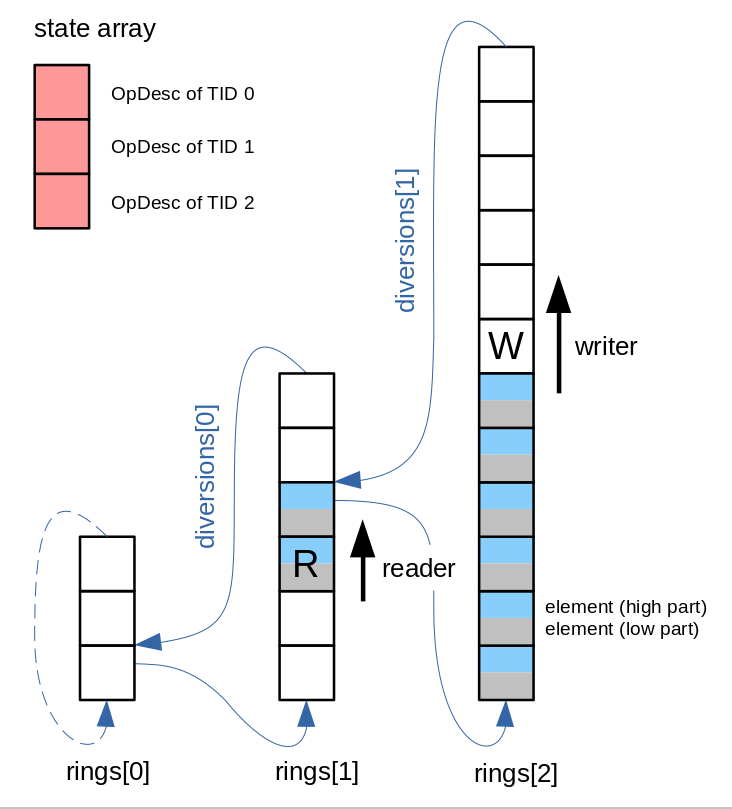
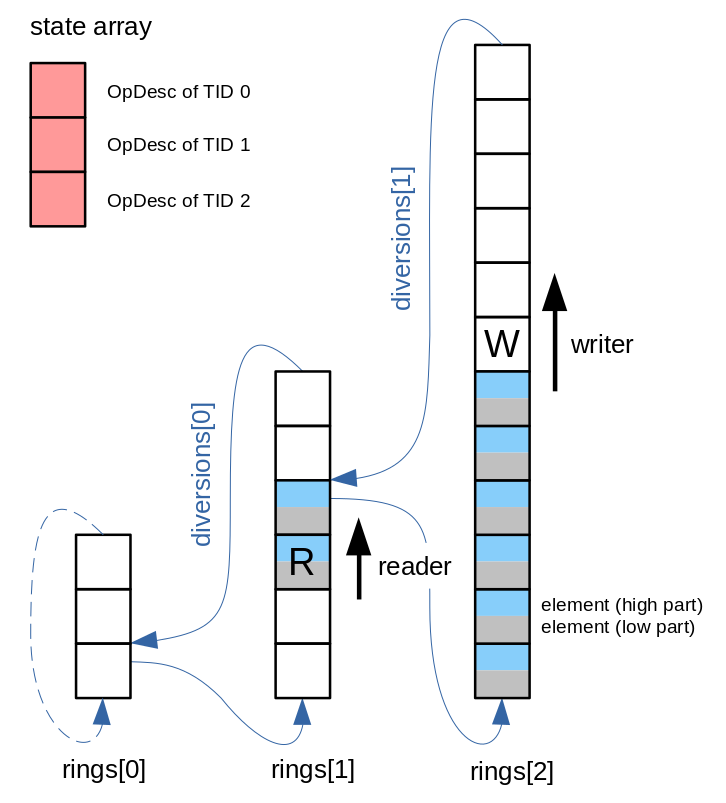
Improve asserts in Simulator of Wait-Free Queue

diff --git a/Simulator_WaitFreeMultiArrayQueue.html b/Simulator_WaitFreeMultiArrayQueue.html
@@ -481,11 +481,14 @@ div.trail {
       }
     } else {
       if (ps[ownTid].elementLowDirty && ps[ownTid].elementLowEnqueue) {
+        assert(10645, "undefined" !== typeof rings[CNT_ALLOWED_EXTENSIONS])
         assert(10650, ps[ownTid].effectiveRound == (1 + ps[ownTid].elementLowRound))
+        assert(10660, MAXIMUM_CAPACITY == (cntEnqueued - cntDequeued))
         ps[ownTid].isNowFullOrEmpty = true
         ps[ownTid].nextStep = "re_check_state_pending"
       } else if (ps[ownTid].elementLowDirty && (false == ps[ownTid].elementLowEnqueue)) {
         if ((ps[ownTid].effectiveRound == (1 + ps[ownTid].oppositeRound)) && (ps[ownTid].effectiveRix == ps[ownTid].oppositeRix) && (ps[ownTid].effectiveIx == ps[ownTid].oppositeIx)) {
+          assert(10670, "undefined" !== typeof rings[CNT_ALLOWED_EXTENSIONS])
           ps[ownTid].origEffectiveRound = ps[ownTid].oppositeRound
           ps[ownTid].effectiveRound = ps[ownTid].oppositeRound
           ps[ownTid].nextStep = "help_finish_re_read_state"
@@ -564,9 +567,11 @@ div.trail {
         } else ps[ownTid].nextStep = "re_check_state_pending"
       } else if (ps[ownTid].elementLowDirty && (false == ps[ownTid].elementLowEnqueue)) {
         assert(10950, ps[ownTid].effectiveRound == (1 + ps[ownTid].elementLowRound))
+        assert(10960, cntEnqueued == cntDequeued)
         ps[ownTid].isNowFullOrEmpty = true
         ps[ownTid].nextStep = "re_check_state_pending"
       } else {
+        assert(10970, cntEnqueued == cntDequeued)
         ps[ownTid].isNowFullOrEmpty = true
         ps[ownTid].nextStep = "re_check_state_pending"
       }
@@ -637,7 +642,6 @@ div.trail {
       if (ps[ownTid].stateEnqueue) {
         if (ps[ownTid].isNowFullOrEmpty) {
           assert(11120, MAXIMUM_CAPACITY == (cntEnqueued - cntDequeued))
-          assert(11130, "undefined" !== typeof rings[CNT_ALLOWED_EXTENSIONS])
         } else {
           linearizationOrder[cntEnqueued] = ps[ownTid].stateValue
           cntEnqueued ++
@@ -730,6 +734,7 @@ div.trail {
   }
 
   atomicSteps["help_finish_re_read_reader"] = function (ownTid) {
+    assert(11499, true == ps[ownTid].elementLowEnqueue)
     ps[ownTid].oppositeRound = readerPositionRound
     ps[ownTid].oppositeRix   = readerPositionRix
     ps[ownTid].oppositeIx    = readerPositionIx